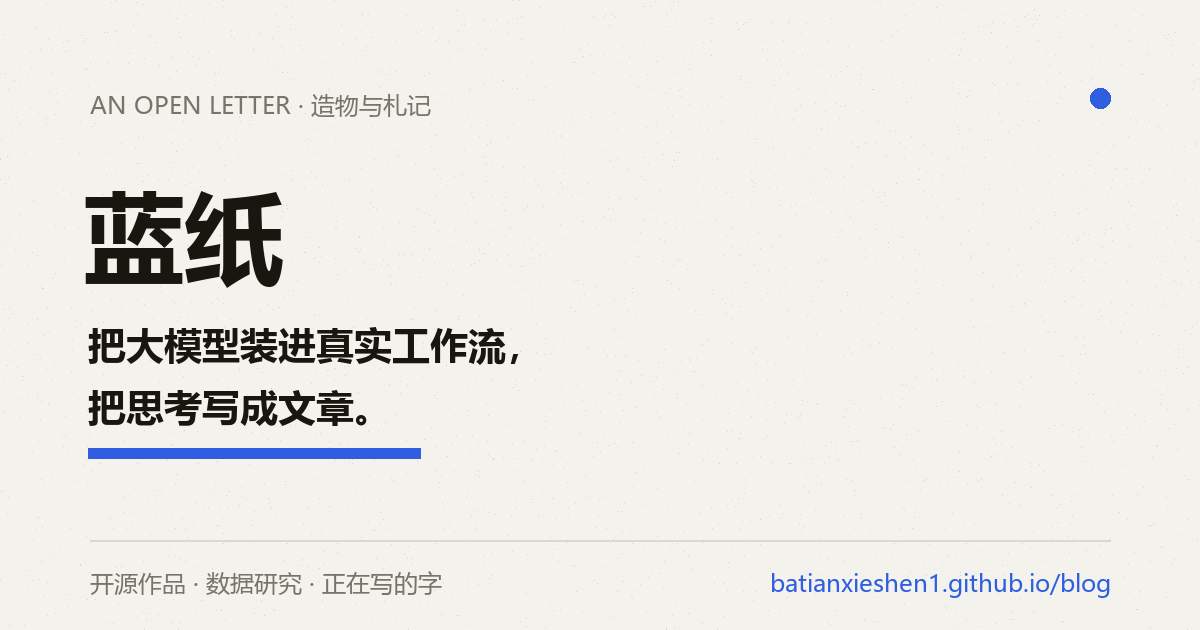
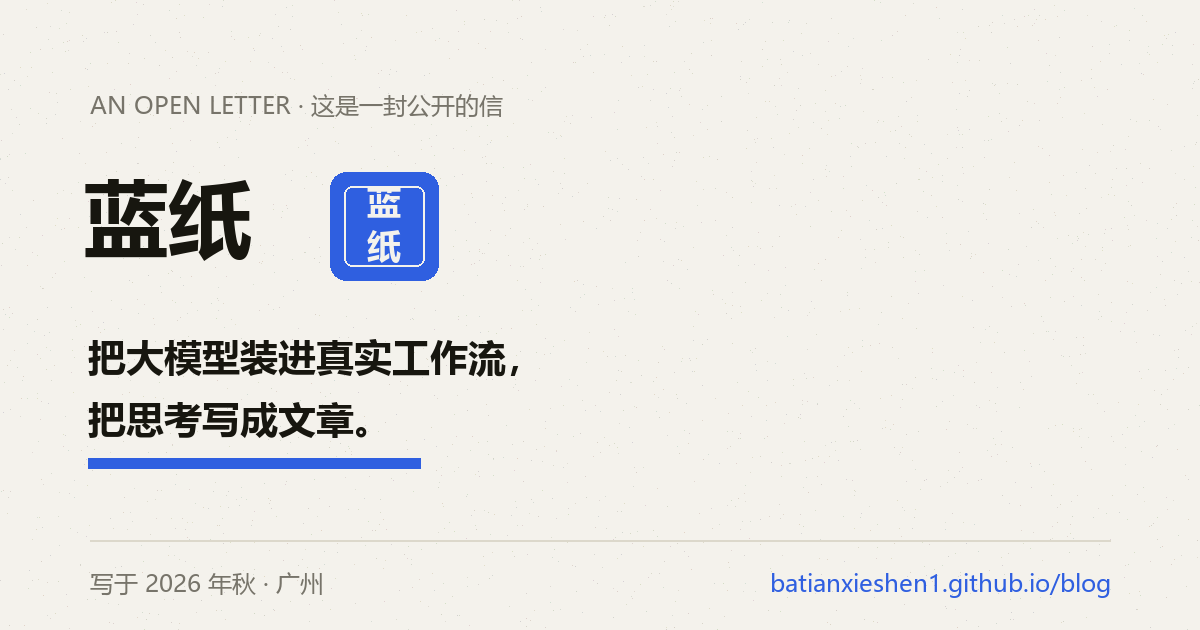
深化第一印象：开信仪式（首访编排）+ 印章落款 + 墨晕氛围 + 信件日期 + 栏目引言 + 信格式分享卡

diff --git a/index.html b/index.html
@@ -21,6 +21,12 @@
     var saved = localStorage.getItem("theme");
     var dark = saved ? saved === "dark" : window.matchMedia("(prefers-color-scheme: dark)").matches;
     if (dark) document.documentElement.setAttribute("data-theme", "dark");
+    /* 开信仪式：仅首次访问且未要求减弱动效时 */
+    var reduce = window.matchMedia("(prefers-reduced-motion: reduce)").matches;
+    if (!localStorage.getItem("letter-opened") && !reduce) {
+      document.documentElement.classList.add("first-visit");
+      localStorage.setItem("letter-opened", "1");
+    }
   } catch (e) {}
 })();
 </script>
@@ -370,6 +376,57 @@ a.post-row { display: grid; }
 .gh-list li a:hover { color: var(--accent-ink); border-color: var(--accent-ink); }
 .gh-list li time { font-family: var(--font-mono); font-size: 11px; color: var(--muted); margin-left: auto; white-space: nowrap; }
 
+/* ============ 开信仪式与信件氛围 ============ */
+.hero::before, .hero::after {
+  content: ""; position: absolute; border-radius: 50%; pointer-events: none; z-index: 0;
+}
+.hero::before {
+  width: 560px; height: 560px; right: -160px; top: -140px;
+  background: radial-gradient(circle, rgba(47, 95, 224, .09), transparent 62%);
+  animation: inkDrift 46s ease-in-out infinite alternate;
+}
+.hero::after {
+  width: 440px; height: 440px; left: -140px; bottom: -60px;
+  background: radial-gradient(circle, rgba(47, 95, 224, .06), transparent 62%);
+  animation: inkDrift 58s ease-in-out infinite alternate-reverse;
+}
+@keyframes inkDrift { to { transform: translate(-46px, 34px); } }
+.hero .wrap, .hero .marquee { position: relative; z-index: 1; }
+
+/* 印章（信头小印 + 页脚落款大印） */
+.seal { display: inline-grid; place-items: center; flex: none; transform: rotate(-4deg); vertical-align: middle; }
+.seal svg { display: block; filter: drop-shadow(0 2px 6px rgba(23, 22, 15, .16)); }
+[data-theme="dark"] .seal svg .seal-bg { fill: #7b93f2; }
+[data-theme="dark"] .seal svg text { fill: #14130f; }
+
+/* 首次访问的开信编排（回访自动跳过） */
+.first-visit .hero-eyebrow, .first-visit .hero-sub, .first-visit .hero-cta, .first-visit .hero-meta, .first-visit .marquee { opacity: 0; animation: heroInText 760ms var(--ease) forwards; }
+.first-visit .hero-eyebrow { animation-delay: .25s }
+.first-visit .hero-sub { animation-delay: .85s }
+.first-visit .hero-cta { animation-delay: 1.1s }
+.first-visit .hero-meta { animation-delay: 1.35s }
+.first-visit .marquee { animation: heroInFade 900ms var(--ease) 1.7s forwards }
+.first-visit .reveal-mask { animation-delay: .55s }
+.first-visit .hero-eyebrow::after {
+  content: ""; display: block; height: 1px; background: var(--hairline);
+  transform: scaleX(0); transform-origin: left; animation: lineGrow 900ms var(--ease) .55s forwards;
+}
+.first-visit .artifact { opacity: 0; animation: heroInFade 800ms var(--ease) forwards; }
+.first-visit .artifact.term { animation-delay: 1.2s }
+.first-visit .artifact.dash { animation-delay: 1.35s }
+.first-visit .artifact.chat { animation-delay: 1.5s }
+.first-visit .artifact.focus { animation-delay: 1.65s }
+@keyframes heroInText { from { opacity: 0; transform: translateY(14px); } to { opacity: 1; transform: none; } }
+@keyframes heroInFade { from { opacity: 0; } to { opacity: 1; } }
+@keyframes lineGrow { to { transform: scaleX(1); } }
+
+/* ============ 栏目引言 ============ */
+.sec-intro {
+  font-size: clamp(16px, 1.9vw, 21px); color: var(--ink-2);
+  max-width: 32em; margin: calc(-1 * clamp(16px, 2.2vw, 34px)) 0 clamp(26px, 3.5vw, 46px);
+}
+.sec-intro .accent-dot { color: var(--accent); }
+
 /* ============ 响应式 ============ */
 @media (max-width: 1024px) {
   .hero-grid { grid-template-columns: 1fr; }
@@ -397,6 +454,7 @@ a.post-row { display: grid; }
   *, *::before, *::after { animation: none !important; transition: none !important; }
   .rv { opacity: 1; transform: none; }
   .reveal-mask { clip-path: none; }
+  .first-visit .hero-eyebrow, .first-visit .hero-sub, .first-visit .hero-cta, .first-visit .hero-meta, .first-visit .marquee, .first-visit .artifact { opacity: 1; }
 }
 </style>
 </head>
@@ -428,7 +486,7 @@ a.post-row { display: grid; }
 <header class="hero" id="top">
   <div class="wrap hero-grid">
     <div class="hero-left">
-      <div class="hero-eyebrow rv in">这是一封公开的信</div>
+      <div class="hero-eyebrow rv in">这是一封公开的信<span class="seal" aria-hidden="true"><svg width="24" height="24" viewBox="0 0 64 64"><rect class="seal-bg" x="2" y="2" width="60" height="60" rx="10" fill="#2f5fe0"/><rect x="9" y="9" width="46" height="46" rx="6" fill="none" stroke="#f4f2ec" stroke-opacity=".55" stroke-width="1.5"/><text x="32" y="30" font-size="20" font-family="'Noto Sans SC','PingFang SC','Microsoft YaHei',sans-serif" font-weight="700" fill="#f4f2ec" text-anchor="middle">蓝</text><text x="32" y="51" font-size="20" font-family="'Noto Sans SC','PingFang SC','Microsoft YaHei',sans-serif" font-weight="700" fill="#f4f2ec" text-anchor="middle">纸</text></svg></span></div>
       <h1 class="hero-title"><span class="reveal-mask">把大模型装进<span class="hl">真实工作流</span>，<br>把思考写成文章。</span></h1>
       <p class="hero-sub rv in" style="transition-delay:.4s">
         白天做产品与数据，夜里把过程写成文字 ——
@@ -439,7 +497,7 @@ a.post-row { display: grid; }
         <a class="btn btn-primary" href="#works">从造物开始 ↓</a>
         <a class="btn btn-ghost" href="#contact">见字如面 →</a>
       </div>
-      <div class="hero-meta rv in" style="transition-delay:.7s">广州 · 纸面与代码之间</div>
+      <div class="hero-meta rv in" style="transition-delay:.7s">写于 2026 年秋 · 广州 · 纸面与代码之间</div>
     </div>
 
     <div class="hero-visual" id="artifacts">
@@ -478,6 +536,7 @@ a.post-row { display: grid; }
   <section id="works">
     <div class="wrap">
       <div class="sec-label rv"><span class="idx">01</span><b>造物</b><span>WORKS — 均已开源，可点开看代码</span></div>
+      <p class="sec-intro rv">说不如做<span class="accent-dot"> —— </span>以下每一样，都能点开亲手试。</p>
       <div>
         <a class="work-row rv" href="https://github.com/Batianxieshen1/OpenJob" target="_blank" rel="noopener" data-preview="openjob">
           <span class="w-idx">01</span>
@@ -533,6 +592,7 @@ a.post-row { display: grid; }
   <section id="strengths">
     <div class="wrap">
       <div class="sec-label rv"><span class="idx">02</span><b>底色</b><span>STRENGTHS — Numbers behind the works</span></div>
+      <p class="sec-intro rv">作品是结出的果实<span class="accent-dot">，</span>这些是往下扎的根。</p>
       <div class="stats rv">
         <div class="stat"><div class="num" data-count="7">0</div><div class="cap">个开源项目，全部独立完成</div></div>
         <div class="stat"><div class="num" data-count="12">0</div><div class="cap">人团队统筹 · 融媒体中心副主任</div></div>
@@ -566,6 +626,7 @@ a.post-row { display: grid; }
   <section id="writing">
     <div class="wrap">
       <div class="sec-label rv"><span class="idx">03</span><b>札记</b><span>NOTES — 2 篇已发布，持续更新</span></div>
+      <p class="sec-intro rv">把踩过的坑<span class="accent-dot">，</span>写成后来人的路标。</p>
       <div>
         <a class="post-row rv" href="posts/three-levels.html">
           <span class="p-date">2026 · 09</span>
@@ -596,6 +657,7 @@ a.post-row { display: grid; }
   <section id="about">
     <div class="wrap">
       <div class="sec-label rv"><span class="idx">04</span><b>来路</b><span>JOURNEY</span></div>
+      <p class="sec-intro rv">一行一行<span class="accent-dot">，</span>走成现在的样子。</p>
       <div class="about-grid">
         <div class="about-copy rv">
           <div class="now-pill"><i></i>NOW — 博客更新中 · 正在做新的东西</div>
@@ -640,7 +702,7 @@ a.post-row { display: grid; }
 <footer id="contact">
   <div class="wrap foot-inner">
     <div class="foot-label rv">05 — 信箱 · CORRESPONDENCE · 欢迎合作、问询与闲聊</div>
-    <div class="foot-big rv">见字如面<span class="accent">。</span></div>
+    <div class="foot-big rv">见字如面<span class="accent">。</span><span class="seal" aria-hidden="true" style="margin-left:18px"><svg width="62" height="62" viewBox="0 0 64 64"><rect class="seal-bg" x="2" y="2" width="60" height="60" rx="10" fill="#2f5fe0"/><rect x="9" y="9" width="46" height="46" rx="6" fill="none" stroke="#f4f2ec" stroke-opacity=".55" stroke-width="1.5"/><text x="32" y="30" font-size="20" font-family="'Noto Sans SC','PingFang SC','Microsoft YaHei',sans-serif" font-weight="700" fill="#f4f2ec" text-anchor="middle">蓝</text><text x="32" y="51" font-size="20" font-family="'Noto Sans SC','PingFang SC','Microsoft YaHei',sans-serif" font-weight="700" fill="#f4f2ec" text-anchor="middle">纸</text></svg></span></div>
     <div class="foot-links rv">
       <a class="foot-link" href="assets/resume.pdf" download="简历.pdf" style="background:var(--paper);color:var(--ink);border-color:var(--paper)">↓ 下载简历 PDF</a>
       <a class="foot-link" href="mailto:13676097998@163.com">✉ 邮箱 13676097998@163.com</a>
@@ -648,7 +710,7 @@ a.post-row { display: grid; }
       <a class="foot-link" href="javascript:void(0)" id="wechat-copy" title="点击复制微信号">◎ 微信 lqt1010dsb</a>
     </div>
     <div class="foot-base">
-      <span>© 2026 蓝纸 · BLUE PAPER</span>
+      <span>写于 2026 年秋 · 广州 —— © 2026 蓝纸 · BLUE PAPER</span>
       <span id="busuanzi_container_site_pv" style="display:none">本页被看过 <b id="busuanzi_value_site_pv"></b> 次 · </span>
       <span>本页由 AI 辅助构建 · <a href="#top">人工复核后发布</a> ↑</span>
     </div>
